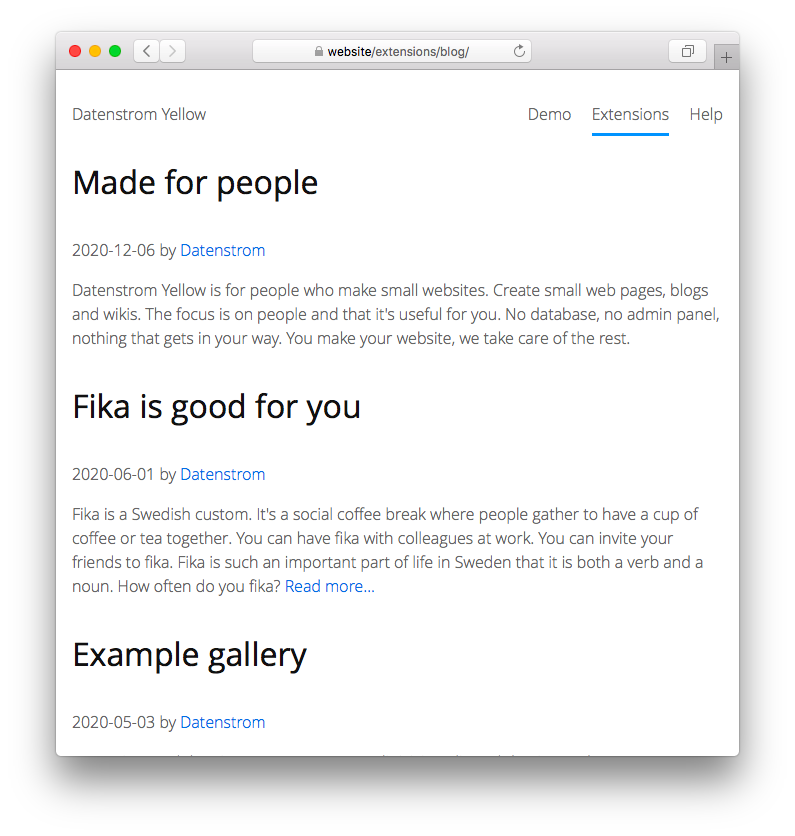
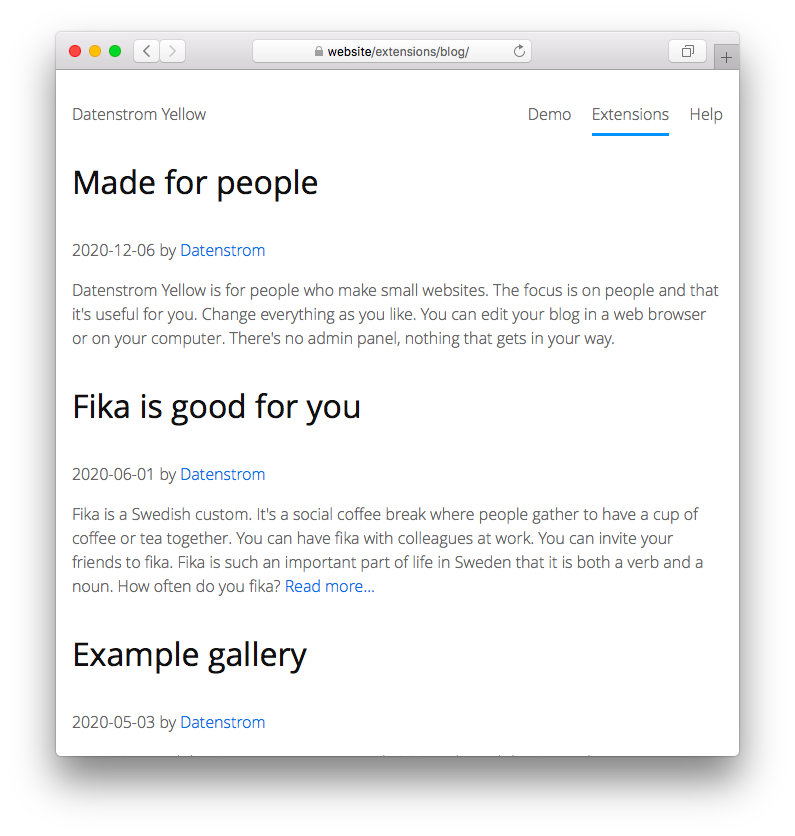
Updated documentation

Changed region(s): [[0.0906, 0.3421, 0.9057, 0.4354]]

diff --git a/source/wiki/page.md b/source/wiki/page.md
@@ -4,6 +4,6 @@ Layout: wikipages
 LayoutNew: wiki
 Tag: Example
 ---
-Datenstrom Yellow is for people who make small websites. Create small web pages, blogs and wikis. The focus is on people and that it's useful for you. No database, no admin panel, nothing that gets in your way. You make your website, we take care of the rest.
+Datenstrom Yellow is for people who make small websites. The focus is on people and that it's useful for you. Change everything as you like. You can edit your wiki in a web browser or on your computer. There's no admin panel, nothing that gets in your way.
 
 Lorem ipsum dolor sit amet, consectetur adipisicing elit, sed do eiusmod tempor incididunt ut labore et dolore magna pizza. Ut enim ad minim veniam, quis nostrud exercitation ullamco laboris nisi ut aliquip ex ea commodo consequat. Duis aute irure dolor in reprehenderit in voluptate velit esse cillum dolore eu fugiat nulla pariatur. Excepteur sint occaecat cupidatat non proident, sunt in culpa qui officia deserunt mollit anim id est laborum.

diff --git a/source/help/de/contributing-guidelines.md b/source/help/de/contributing-guidelines.md
@@ -15,9 +15,9 @@ Wie man zusammenarbeitet und gute Produkte macht.
 ## Wie man einen Fehler meldet
 
 * [Beginne eine neue Diskussion für jeden Fehler](https://github.com/datenstrom/yellow/discussions).
-* Erkläre was nicht funktioniert und wie man den Fehler reproduzieren kann.
-* Füge viele Details hinzu, je mehr wir wissen, desto besser können wir dir helfen.
-* Überprüfe die Datei `system/extensions/yellow.log` nach Fehlermeldungen.
+* Erkläre wie man den Fehler reproduziert kann, versuche die Ursache einzugrenzen.
+* Füge viele Details hinzu, überprüfe die Logdatei `system/extensions/yellow.log`.
+* Teste ob alles funktioniert, wenn dein Problem behoben wurde.
 
 ## Wie man eine Erweiterung erstellt
 

diff --git a/source/help/en/contributing-guidelines.md b/source/help/en/contributing-guidelines.md
@@ -15,9 +15,9 @@ Here's how to work together and make good products.
 ## How to report a bug
 
 * [Start a new discussion for each bug](https://github.com/datenstrom/yellow/discussions).
-* Explain what doesn't work and how to reproduce the error.
-* Add a lot of details, the more we know the better we can help.
-* Check the file `system/extensions/yellow.log` for error messages.
+* Explain how to reproduce the bug, try to narrow down the cause.
+* Add many details, check the log file `system/extensions/yellow.log`.
+* Test that everything works, when your problem has been fixed.
 
 ## How to create an extension
 

diff --git a/source/blog/2020-12-06-made-for-people.md b/source/blog/2020-12-06-made-for-people.md
@@ -5,4 +5,4 @@ Author: Datenstrom
 Layout: blog
 Tag: Example
 ---
-Datenstrom Yellow is for people who make small websites. Create small web pages, blogs and wikis. The focus is on people and that it's useful for you. No database, no admin panel, nothing that gets in your way. You make your website, we take care of the rest.
+Datenstrom Yellow is for people who make small websites. The focus is on people and that it's useful for you. Change everything as you like. You can edit your blog in a web browser or on your computer. There's no admin panel, nothing that gets in your way.
